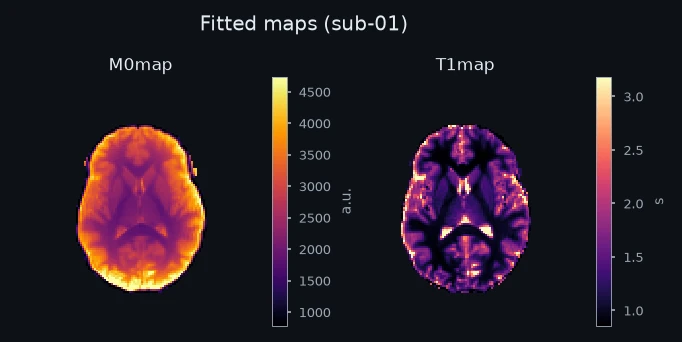
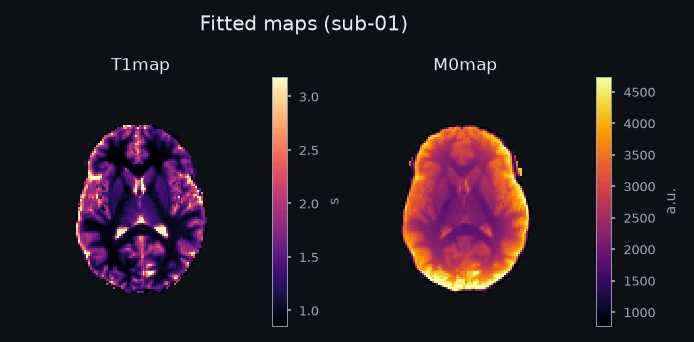
docs: regenerate for the vfa_t1 output order
Claude-Session: https://claude.ai/code/session_01UPdViMfzMRjrtkSmwWbG5F

diff --git a/docs/models/relaxometry/vfa_t1.md b/docs/models/relaxometry/vfa_t1.md
@@ -76,8 +76,8 @@ Auxiliary maps and the mask applied to this fit.
 
 | Map | BIDS suffix | Unit | Fit bounds | Fitted |
 |---|---|---|---|---|
-| `M0` | `M0map` | — | 0 … 6000 | free |
 | `T1` | `T1map` | s | 1e-05 … 5 | free |
+| `M0` | `M0map` | — | 0 … 6000 | free |
 
 ```{figure} ../../figures/vfa_t1/outputs.webp
 :label: fig-vfa_t1-outputs
@@ -118,10 +118,10 @@ Fitted maps are written as BIDS derivatives:
 
 ```text
 out/derivatives/qmrust/sub-01/anat/
-  sub-01_M0map.nii.gz
-  sub-01_M0map.json
   sub-01_T1map.nii.gz
   sub-01_T1map.json
+  sub-01_M0map.nii.gz
+  sub-01_M0map.json
 ```
 :::
 

diff --git a/docs/index.md b/docs/index.md
@@ -71,7 +71,7 @@ Fits the longitudinal relaxation time T1 from a series of inversion-recovery ima
 
 Fits the longitudinal relaxation time T1 from spoiled gradient-echo images acquired at two or more excitation flip angles and a single repetition time.
 
-`VFA` · `M0map`, `T1map`
+`VFA` · `T1map`, `M0map`
 :::
 ::::
 <!-- END generated: model gallery -->

diff --git a/docs/models/index.md b/docs/models/index.md
@@ -60,6 +60,6 @@ Fits the longitudinal relaxation time T1 from a series of inversion-recovery ima
 
 Fits the longitudinal relaxation time T1 from spoiled gradient-echo images acquired at two or more excitation flip angles and a single repetition time.
 
-`VFA` · `M0map`, `T1map`
+`VFA` · `T1map`, `M0map`
 :::
 ::::

diff --git a/docs/models/relaxometry/inversion_recovery.md b/docs/models/relaxometry/inversion_recovery.md
@@ -60,6 +60,7 @@ In a BIDS dataset these values are resolved for you:
 | Protocol parameter | Source | Key | Resolved |
 |---|---|---|---|
 | `InversionTime` | sidecar field | `InversionTime` | per volume |
+| `RepetitionTime` | sidecar field | `RepetitionTime` | whole collection |
 
 ## Inputs
 
